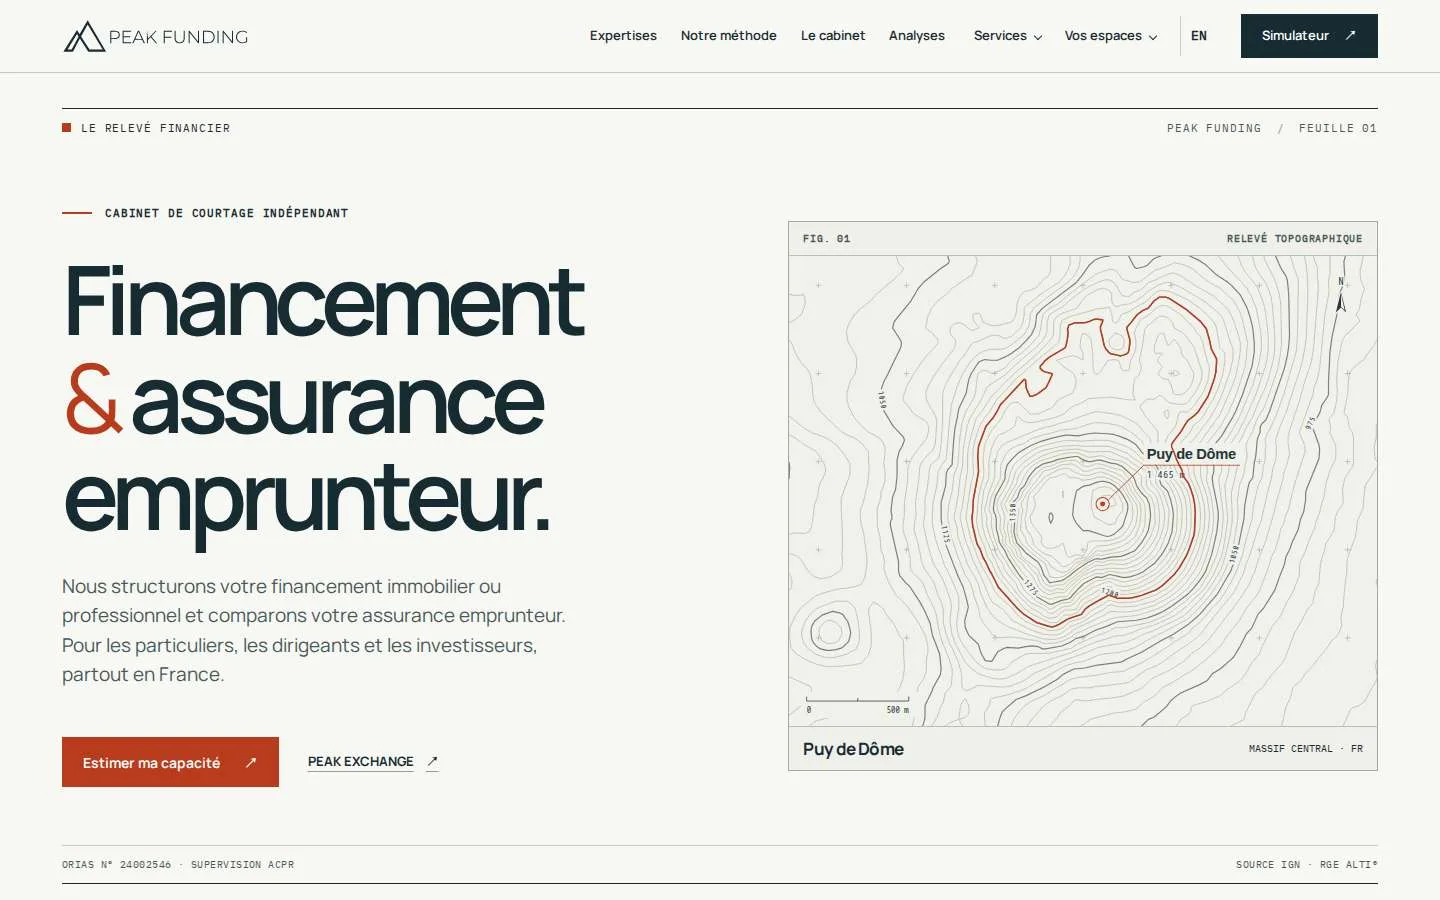
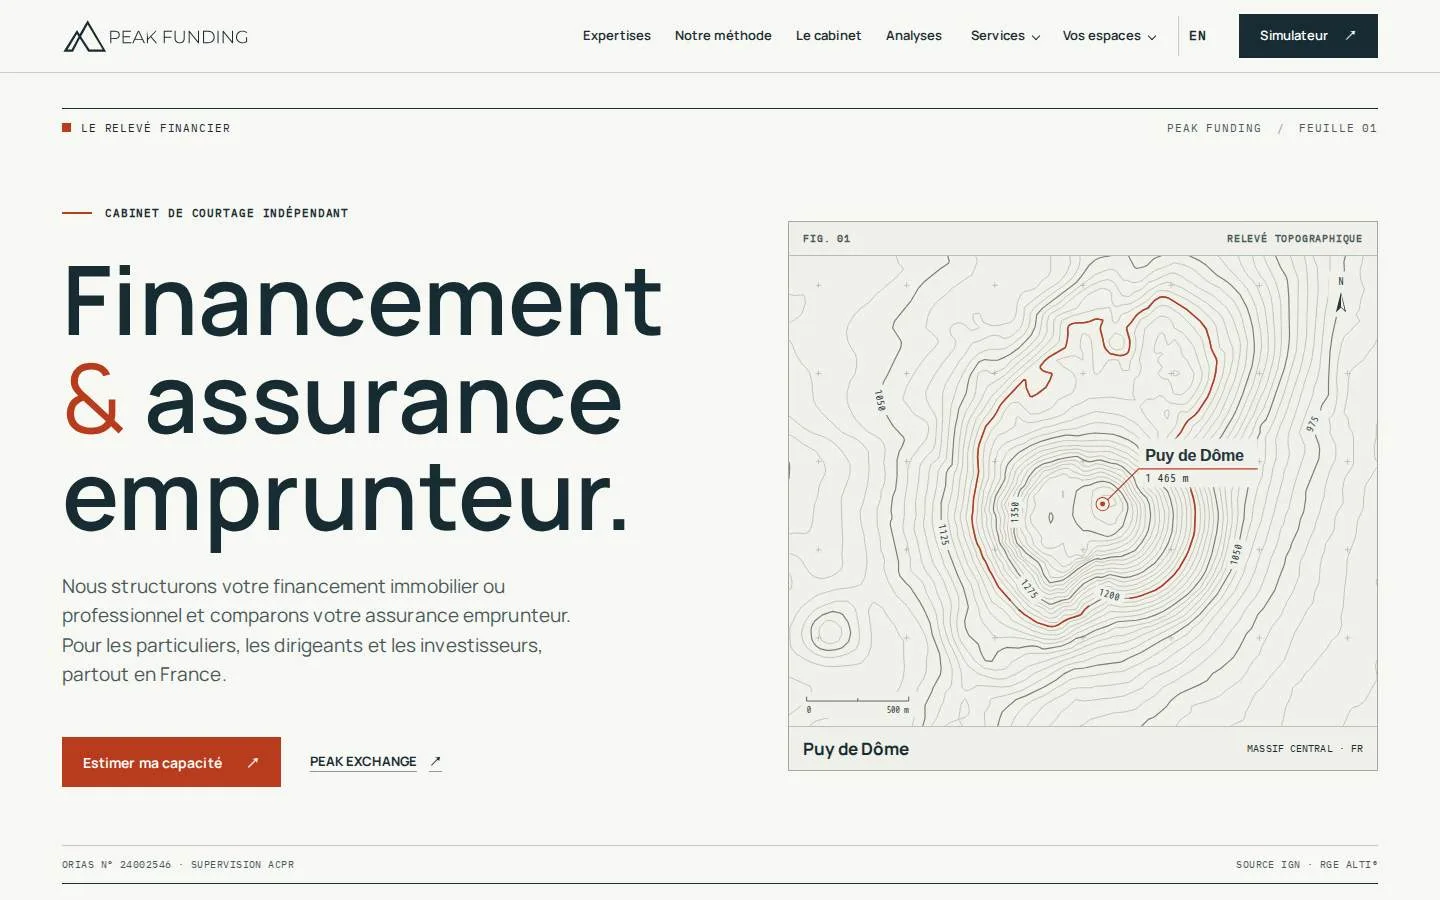
Contrôler le défilement intégral, les ancres et les rendus du Relevé

diff --git a/docs/page-blanche/audit.md b/docs/page-blanche/audit.md
@@ -22,16 +22,29 @@ Les familles contrôlées comprennent l’accueil, PEAK ESTATE, la liste d’ana
 
 Les planches par famille et par route ont servi à la relecture. La revue détaillée a porté sur l’accueil, les actions, les sections au défilement et les anomalies. Les tests ont été rejoués après correction du contraste des boutons d’extrait, de la largeur des lignes d’analyses à 844 px, du double affichage du repère ORIAS et de l’accès direct à Actelo. [Expertise mobile](captures/expertise-fr-mobile.webp) · [Analyses sur tablette](captures/analyses-en-tablette.webp) · [Simulateur sur ordinateur](captures/simulateur-fr-bureau.webp)
 
-## Interactions et poids
+## Lecture au défilement
 
-- En français et en anglais, le clavier ouvre le menu mobile, Échap le ferme et le focus revient au bouton. La FAQ s’ouvre avec Entrée. Le lien principal rejoint le simulateur et la modification d’un revenu change le résultat estimé.
-- À 320 px sans JavaScript, le menu et la FAQ s’ouvrent au clavier. Le simulateur affiche sa valeur initiale et une explication sur le recalcul. Les formulaires privés expliquent leur dépendance à JavaScript. Le lien direct vers Actelo reste visible.
-- Après défilement de l’accueil complet en français et en anglais, le JavaScript hors simulateur pèse **10 384 octets gzip**. Le calcul additionne les scripts intégrés compressés individuellement (4 760 octets) et le seul fichier JavaScript chargé (5 624 octets). L’îlot du simulateur a été maintenu hors affichage pendant cette mesure pour isoler son coût. Les données JSON-LD sont exclues.
-- Les comparaisons, vues ciblées et neuf fichiers WebP conservés occupent **490 044 octets** dans le dossier des captures.
+Sur l’accueil français, la molette a parcouru 13 917 px en 21 vues à 390 px et 12 854 px en 18 vues à 1 440 px. Les titres et les citations étaient visibles à leur passage dans la fenêtre. Après retour en haut et stabilisation, Chromium a pris une capture pleine page native par format à densité 1. Les deux captures ont été relues de haut en bas. Deux images supplémentaires montrent les panneaux ESTATE et PIM pendant leur épinglage. [Accueil complet mobile](captures/accueil-complet-390.webp) · [Accueil complet bureau](captures/accueil-complet-1440.webp) · [Scène ESTATE](captures/scene-estate.webp) · [Scène PIM](captures/scene-pim.webp)
 
-## Compilation et polices
+Les 40 essais de liens vers les quatre zones ont placé leur cible sous le bandeau. Les 40 essais au clavier des liens du profil ont atteint les stations de méthode correspondantes. Au défilement, les stations 01 à 04 se sont activées dans l’ordre de passage, dans les deux sens. La trace reste fixe en mouvement réduit et avec `?statique`. Sans JavaScript, le profil et ses quatre stations restent lisibles.
 
-Le build produit 72 pages. La suite compte 71 tests, dont 70 réussites et un comparatif historique V1 omis faute de source. Les tables de caractères des deux polices locales contiennent les 33 caractères contrôlés, dont les lettres accentuées françaises, Œ, œ et €.
+## Parcours et clavier
+
+- En français et en anglais, Entrée ouvre le menu mobile, Échap le ferme et le focus revient au bouton. La FAQ s’ouvre avec Entrée. Le lien principal rejoint le simulateur. La modification du revenu change le résultat estimé.
+- La touche Fin atteint le pied de page et la touche Début ramène à zéro. Les ancres du simulateur et de l’équipe placent les sections à 86 px du haut pour des bandeaux de 63 et 73 px. Après saisie d’une ancre dans la barre d’adresse et visite d’une expertise, le bouton Précédent restaure exactement la position de départ, 1 137 px sur mobile et 1 467 px sur ordinateur.
+- Sur ordinateur, Chromium a signalé une transition interrompue au cours d’une navigation interceptée par Playwright. Le contenu et le défilement ont été restaurés. Trois répétitions par connexion locale directe ont restauré la page sans ce message.
+- Les commandes des avis font passer de 01/06 à 02/06, puis à 01/06. L’ancre du deuxième avis affiche sa citation. Les six avis sont présents sans JavaScript.
+- À 320 px sans JavaScript, le menu et la FAQ s’ouvrent au clavier. Le simulateur affiche sa valeur initiale et explique comment activer le recalcul. Les formulaires privés expliquent leur dépendance à JavaScript. Le lien direct vers Actelo reste visible.
+
+## Polices et zoom
+
+Les tables de caractères des deux polices locales couvrent les 33 caractères vérifiés, dont les accents français, Œ, œ et €. Le zoom a été émulé à 200 % et 400 % pour les 14 familles en français et en anglais, soit 56 vérifications. La fenêtre de référence de 1 440 px dispose respectivement de 720 et 360 px CSS. Aucun titre ni document ne déborde. Le contrôle au fort grossissement a porté sur les paires serrées de lettres, notamment dans « Financement » et « Cette ». [Détail des titres à 400 %](captures/titre-400.webp)
+
+## Poids et compilation
+
+L’accueil charge **6 120 octets gzip de JavaScript hors simulateur**, en français comme en anglais. La mesure additionne les sept scripts intégrés comprimés individuellement. Aucun fichier JavaScript externe n’a été chargé pendant le parcours avec le simulateur isolé. Le JSON-LD est exclu. Les 14 fichiers WebP conservés occupent **2 056 706 octets**.
+
+La compilation produit 72 pages. La suite compte 71 tests, dont 70 réussites et un comparatif historique V1 omis faute de source. Après correction du libellé SVG de la méthode au commit `64f87f5`, les quatre audits axe de l’accueil ont confirmé la disparition de la violation sur les noms accessibles des stations.
 
 ## Limites
 
